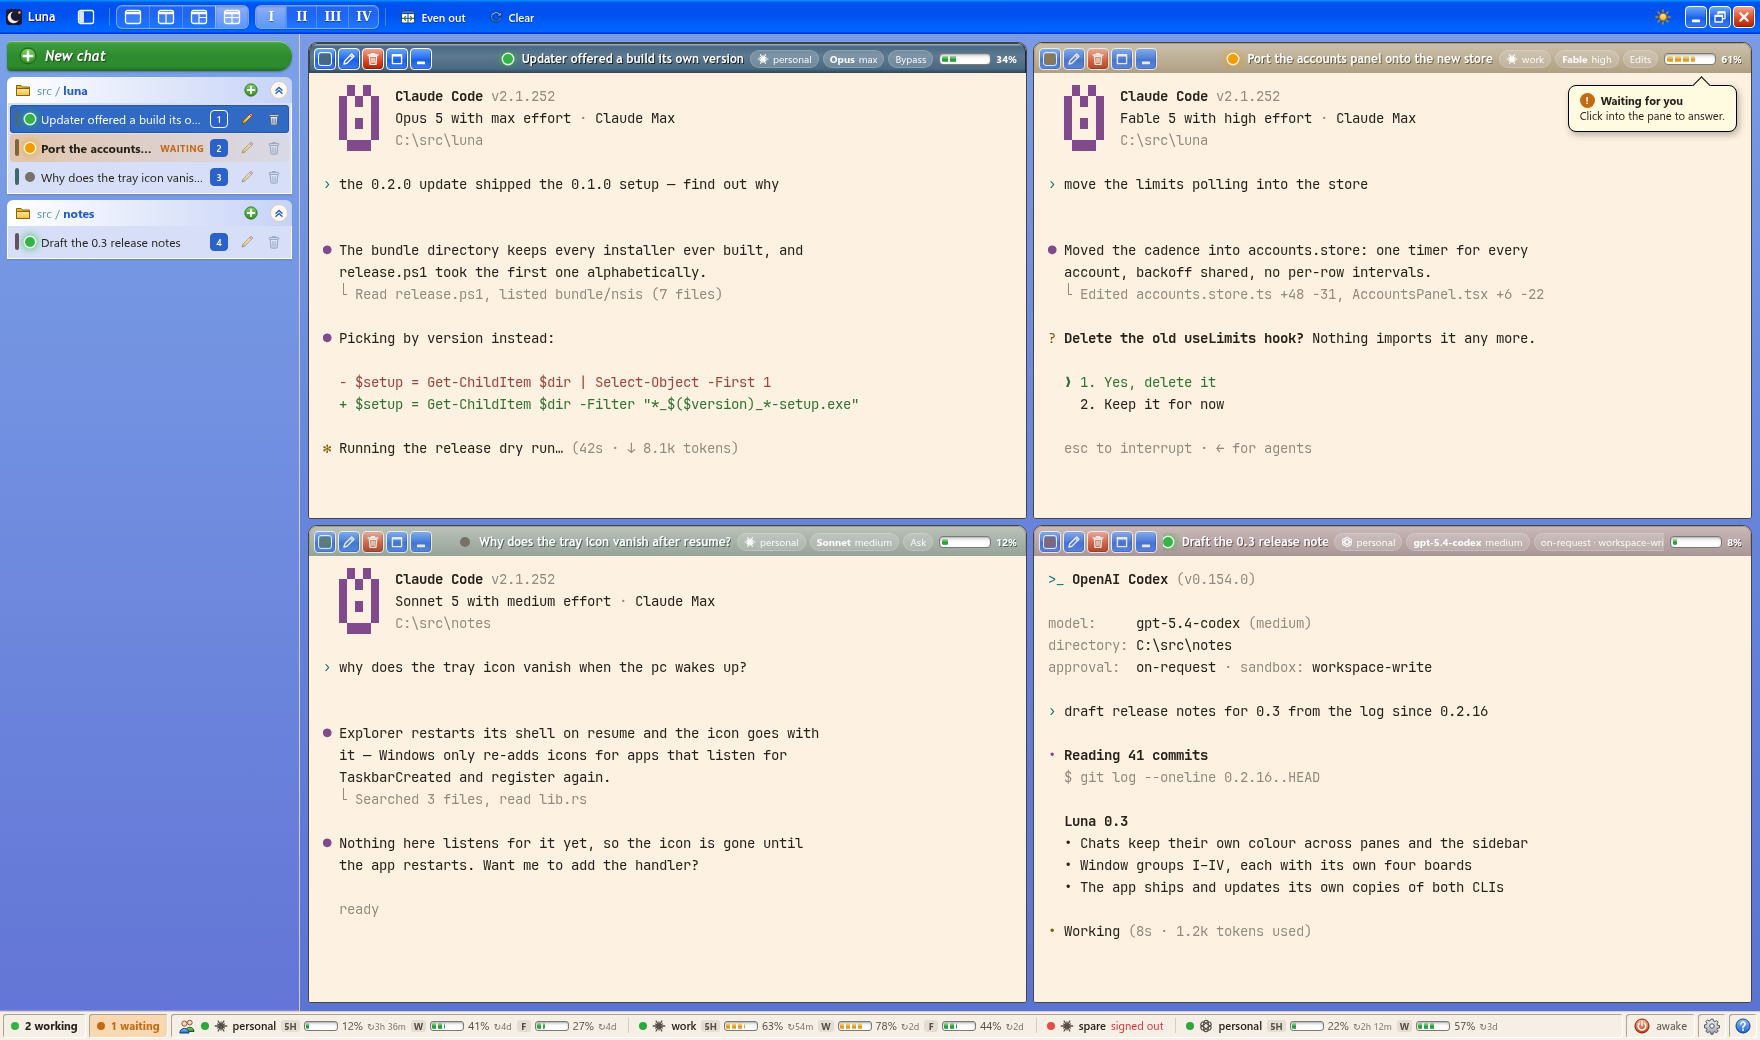
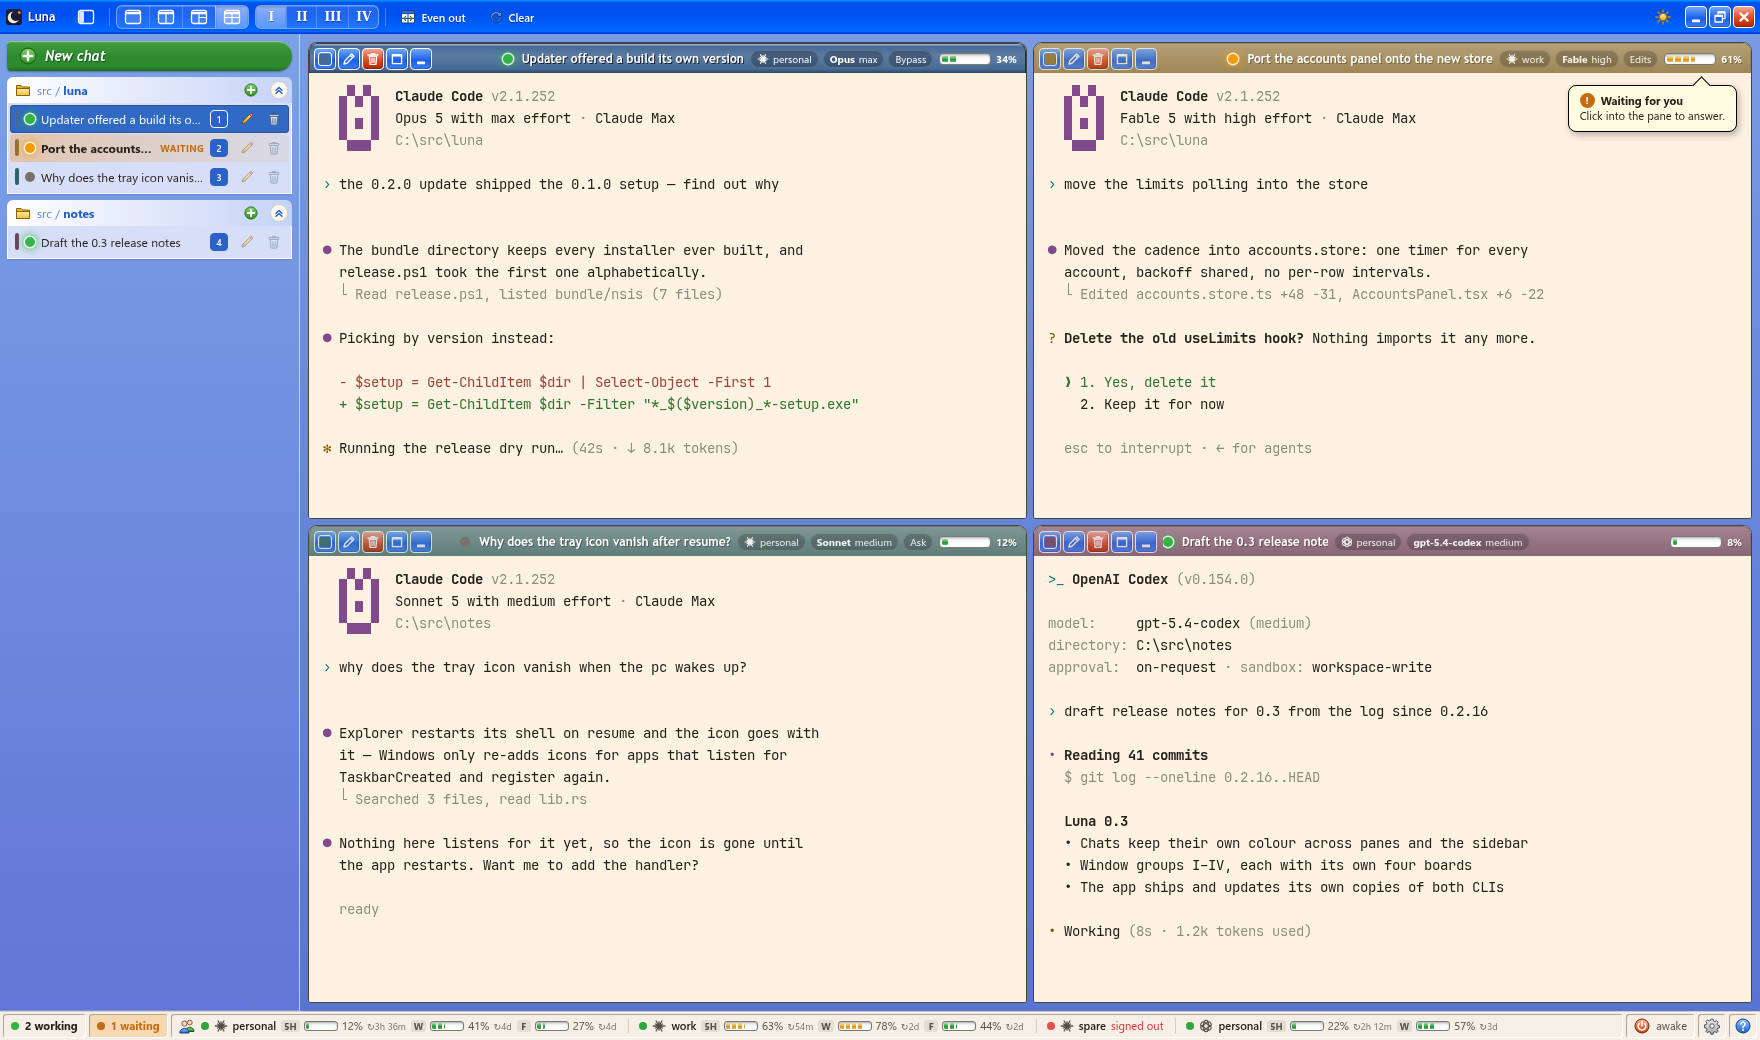
Readable chips on any title bar, and chat colours told apart
The chips on a pane's title bar are dark glass now: the white ones vanished
on the pale bar of an inactive pane. Inactive bars keep more of their colour.
A chip that does not fit whole drops out instead of showing cut in half, the
folder and worktree first. The muted chat colours spread further apart in hue
and lightness, so teal and sage, slate and dusk, clay and brick no longer
pass for each other.

Changed region(s): [[0.1562, 0.4923, 1.0, 0.5538], [0.5938, 0.0308, 1.0, 0.0923], [0.4062, 0.0308, 0.5312, 0.0923]]

diff --git a/src/app/theme.css b/src/app/theme.css
@@ -614,12 +614,18 @@ body { margin: 0; overflow: hidden; }
   text-shadow: 1px 1px color-mix(in oklab, var(--c) 45%, black);
 }
 /* The chat's details as separate chips, not one run of text. */
+/* One row tall and wrapping: a chip that does not fit whole goes to a second
+   row nobody sees, rather than showing cut in half. The least needed come
+   last, so they are the first to go. */
 [data-app] .pane-chips {
   flex: 0 1 auto;
   min-width: 0;
+  height: 18px;
   display: flex;
+  flex-wrap: wrap;
   align-items: center;
-  gap: 4px;
+  align-content: flex-start;
+  gap: 0 4px;
   overflow: hidden;
 }
 [data-app] .pchip {
@@ -630,9 +636,11 @@ body { margin: 0; overflow: hidden; }
   height: 18px;
   padding: 0 7px;
   border-radius: 9px;
-  background: rgba(255, 255, 255, .2);
-  box-shadow: inset 0 0 0 1px rgba(255, 255, 255, .18);
-  color: rgba(255, 255, 255, .95);
+  /* Dark glass, not light: white text needs a darker ground on the pale bar
+     of an inactive pane as much as on a saturated one. */
+  background: rgba(0, 0, 0, .24);
+  box-shadow: inset 0 0 0 1px rgba(255, 255, 255, .16);
+  color: #fff;
   font: 400 var(--fs-2) var(--sans-serif);
   white-space: nowrap;
   text-shadow: none;
@@ -667,15 +675,15 @@ body { margin: 0; overflow: hidden; }
 
 /* An inactive XP window is pale, not grey: the hue survives, the shout goes. */
 [data-app] .pane[data-focus="no"] .pane-bar {
-  border-color: color-mix(in oklab, var(--c) 35%, #c9bfb0);
-  background: linear-gradient(180deg, color-mix(in oklab, var(--c) 30%, #f1e9dd), color-mix(in oklab, var(--c) 42%, #d8cdbc));
+  border-color: color-mix(in oklab, var(--c) 50%, #a89c8a);
+  background: linear-gradient(180deg, color-mix(in oklab, var(--c) 52%, #d9d0c2), color-mix(in oklab, var(--c) 64%, #b3a794));
 }
 [data-app] .pane[data-focus="no"] .pane-bar .title-bar-text,
 [data-app] .pane[data-focus="no"] .ctx-meter {
   color: #fff;
   text-shadow: 1px 1px color-mix(in oklab, var(--c) 55%, #5c5446);
 }
-[data-app] .pane[data-focus="no"] .pchip { background: rgba(255, 255, 255, .16); }
+[data-app] .pane[data-focus="no"] .pchip { background: rgba(0, 0, 0, .2); color: rgba(255, 255, 255, .92); }
 [data-app] .pane[data-focus="no"] .pane-sid { color: rgba(255, 255, 255, .88); }
 [data-app] .pane[data-focus="no"] .title-bar-controls button { opacity: .72; }
 [data-app] .pane[data-focus="no"] .title-bar-controls button:hover { opacity: 1; }

diff --git a/src/shared/ui/chatColors.ts b/src/shared/ui/chatColors.ts
@@ -17,16 +17,16 @@ export interface ChatColor {
 }
 
 export const CHAT_COLORS: ChatColor[] = [
-  { key: 'sky', label: 'Slate blue', h: 207, s: 28, l: 40 },
-  { key: 'teal', label: 'Deep teal', h: 178, s: 26, l: 33 },
-  { key: 'green', label: 'Sage', h: 135, s: 18, l: 36 },
-  { key: 'olive', label: 'Moss', h: 72, s: 26, l: 33 },
-  { key: 'amber', label: 'Ochre', h: 40, s: 36, l: 35 },
-  { key: 'orange', label: 'Clay', h: 20, s: 32, l: 39 },
-  { key: 'red', label: 'Brick', h: 6, s: 30, l: 39 },
-  { key: 'magenta', label: 'Plum', h: 320, s: 16, l: 37 },
-  { key: 'purple', label: 'Dusk', h: 258, s: 16, l: 41 },
-  { key: 'graphite', label: 'Graphite', h: 30, s: 5, l: 37 }
+  { key: 'sky', label: 'Slate blue', h: 212, s: 36, l: 43 },
+  { key: 'teal', label: 'Deep teal', h: 184, s: 42, l: 29 },
+  { key: 'green', label: 'Sage', h: 118, s: 22, l: 39 },
+  { key: 'olive', label: 'Moss', h: 76, s: 38, l: 29 },
+  { key: 'amber', label: 'Ochre', h: 42, s: 55, l: 37 },
+  { key: 'orange', label: 'Clay', h: 22, s: 46, l: 43 },
+  { key: 'red', label: 'Brick', h: 356, s: 38, l: 37 },
+  { key: 'magenta', label: 'Plum', h: 318, s: 26, l: 35 },
+  { key: 'purple', label: 'Dusk', h: 266, s: 26, l: 46 },
+  { key: 'graphite', label: 'Graphite', h: 30, s: 4, l: 33 }
 ];
 
 /**

diff --git a/src/features/panes/Pane.tsx b/src/features/panes/Pane.tsx
@@ -302,12 +302,12 @@ export function Pane({ index = -1, soloChat }: { index?: number; soloChat?: stri
 
               {!editing && (
                 <span className="pane-chips">
-                  <span className="pchip opt-3" title={folder.path}>{t!.leaf}</span>
                   <span className="pchip opt-1" title={`Running on ${PROVIDER_LABEL[chat.provider]} account "${chat.account}"`}>
                     <Icon name={chat.provider} size={12} />
                     {chat.account}
                   </span>
                   {chat.provider === 'codex' ? <codex.Meta chat={chat} /> : <claude.Meta chat={chat} />}
+                  <span className="pchip opt-3" title={folder.path}>{t!.leaf}</span>
                   {chat.worktree && <span className="pchip opt-3" title="Isolated git worktree">worktree</span>}
                 </span>
               )}
